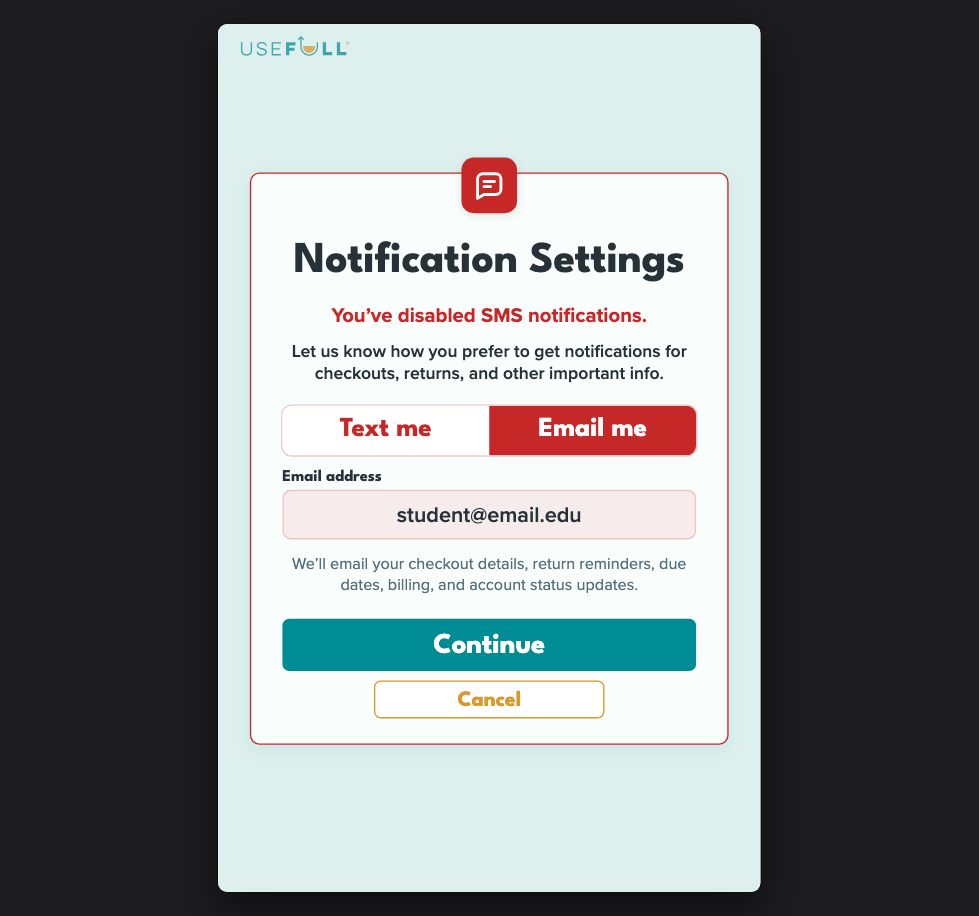
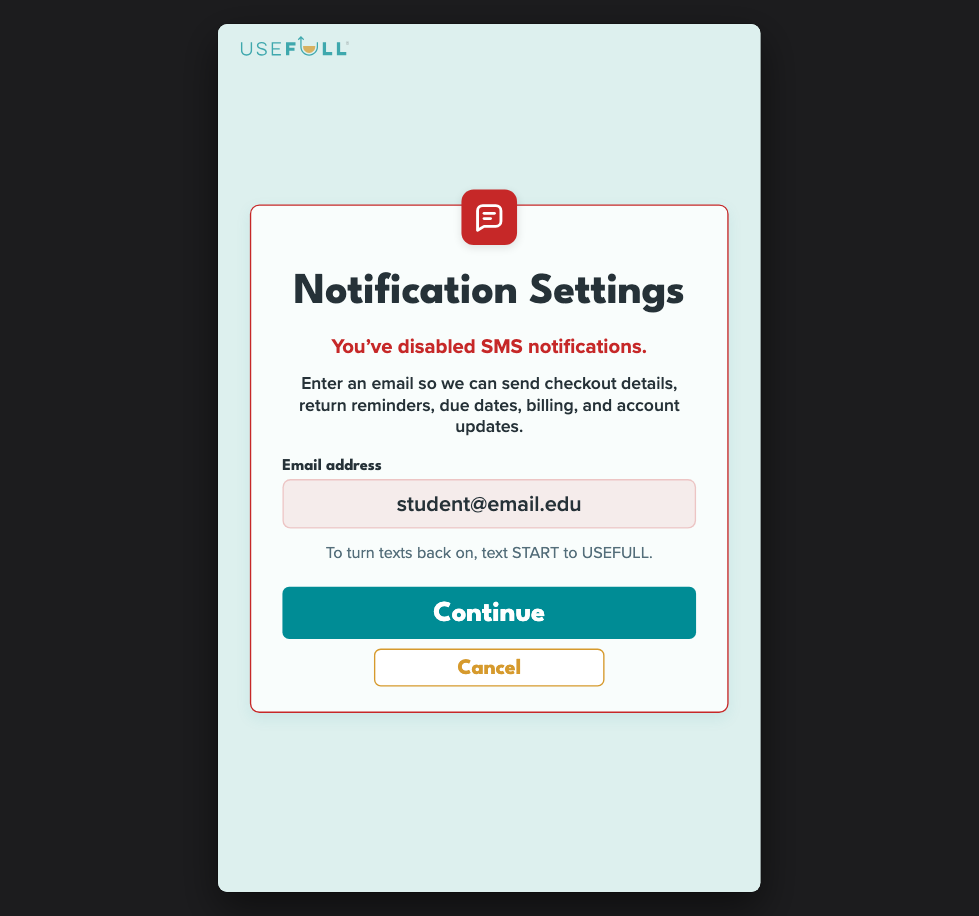
Make SMS disabled notification email-only

Changed region(s): [[0.2451, 0.1528, 0.7661, 0.8253]]

diff --git a/v4.html b/v4.html
@@ -1914,16 +1914,6 @@
     .notification-channel-option.is-selected .notification-channel-option__sub {
       color: rgba(255, 255, 255, 0.86);
     }
-    .notification-settings-card--sms-disabled .notification-channel-toggle {
-      box-shadow: 0 0 0 2px rgba(198, 40, 40, 0.24);
-    }
-    .notification-settings-card--sms-disabled .notification-channel-option {
-      color: #C62828;
-    }
-    .notification-settings-card--sms-disabled .notification-channel-option.is-selected {
-      background: #C62828;
-      color: var(--white);
-    }
     .notification-email-field {
       width: min(100%, 620px);
       display: grid;
@@ -4940,25 +4930,29 @@
         case STATE.NOTIFICATION_SETTINGS: {
           const phoneFmt = formatPhoneNumber(identifierValue || '5551233456');
           const isSmsDisabledScenario = currentFlow?.scenario === CREDIT_SCENARIO.RETURN_SMS_DISABLED;
-          const isChangeableNotifications = isSmsDisabledScenario || notificationSettingsMode === 'changeable';
-          const selectedPreference = isChangeableNotifications ? (notificationPreference || 'sms') : 'sms';
+          const isChannelChoiceAvailable = !isSmsDisabledScenario && notificationSettingsMode === 'changeable';
+          const selectedPreference = isSmsDisabledScenario
+            ? 'email'
+            : isChannelChoiceAvailable
+              ? (notificationPreference || 'sms')
+              : 'sms';
           const emailValue = notificationEmail || '';
           const emailAttrValue = emailValue.replace(/&/g, '&amp;').replace(/"/g, '&quot;').replace(/</g, '&lt;');
           const isEmailSelected = selectedPreference === 'email';
           const isEmailValid = /^[^\s@]+@[^\s@]+\.[^\s@]+$/.test(emailValue);
           const canContinue = !isEmailSelected || isEmailValid;
-          const title = isChangeableNotifications ? 'Notification Settings' : 'Allow Notifications';
+          const title = isSmsDisabledScenario || isChannelChoiceAvailable ? 'Notification Settings' : 'Allow Notifications';
           const subheaderHtml = isSmsDisabledScenario
             ? `
                 <div class="notification-subheader">
                   <div class="notification-subheader__alert">You’ve disabled SMS notifications.</div>
-                  <div class="notification-subheader__body">Let us know how you prefer to get notifications for checkouts, returns, and other important info.</div>
+                  <div class="notification-subheader__body">Enter an email so we can send checkout details, return reminders, due dates, billing, and account updates.</div>
                 </div>
               `
-            : `<div class="auth-card__subtitle">${isChangeableNotifications
+            : `<div class="auth-card__subtitle">${isChannelChoiceAvailable
                 ? 'Choose how we send checkouts, returns, and other important info.'
                 : "We'll send you notifications for checkouts, returns, and other important info via SMS."}</div>`;
-          const selectorHtml = isChangeableNotifications
+          const selectorHtml = isChannelChoiceAvailable
             ? `
                 <div class="notification-channel-toggle" role="group" aria-label="Notification method">
                   <button class="notification-channel-option ${selectedPreference === 'sms' ? 'is-selected' : ''}" id="chooseSmsBtn" type="button" aria-pressed="${selectedPreference === 'sms'}">
@@ -4987,9 +4981,11 @@
                 </div>
               `;
           const legalCopy = isEmailSelected
-            ? 'We’ll email your checkout details, return reminders, due dates, billing, and account status updates.'
+            ? isSmsDisabledScenario
+              ? 'To turn texts back on, text START to USEFULL.'
+              : 'We’ll email your checkout details, return reminders, due dates, billing, and account status updates.'
             : '<strong>By continuing, I agree</strong> USEFULL may text me rental, return, due-date, billing, and account status updates. Msg/data rates may apply. Reply STOP to opt out.';
-          const continueLabel = isChangeableNotifications ? 'Continue' : 'Agree and Continue';
+          const continueLabel = isSmsDisabledScenario || isChannelChoiceAvailable ? 'Continue' : 'Agree and Continue';
           screen.innerHTML = `
             <div class="brand-strip">
               <img class="brand-strip__logo" src="images/USEFULL-icons/USEFULL-Logo-Registered_Color.svg" alt="USEFULL" />
@@ -5035,8 +5031,9 @@
             });
           }
           document.getElementById('notificationContinueBtn').onclick = () => {
-            if (notificationPreference === 'email' && !/^[^\s@]+@[^\s@]+\.[^\s@]+$/.test(notificationEmail || '')) return;
-            if (!isChangeableNotifications) notificationPreference = 'sms';
+            if (isEmailSelected && !/^[^\s@]+@[^\s@]+\.[^\s@]+$/.test(notificationEmail || '')) return;
+            if (isSmsDisabledScenario) notificationPreference = 'email';
+            else if (!isChannelChoiceAvailable) notificationPreference = 'sms';
             advanceFromNotificationSettings();
           };
           document.getElementById('cancelBtn').onclick = resetSession;

diff --git a/appless-checkout/notification-settings-twilio-spec.md b/appless-checkout/notification-settings-twilio-spec.md
@@ -49,7 +49,7 @@ New scenario:
 2. Card fingerprint maps to an existing account.
 3. USEFULL account shows SMS disabled / opted out.
 4. Show SMS Disabled Notification Settings modal immediately after card tap.
-5. User chooses email, or explicitly reselects SMS if re-enablement is supported.
+5. User enters an email address.
 6. Continue the returning-user checkout path.
 
 This screen exists because returning users may still need checkout details, due dates, late fee notices, billing issues, and account status updates even after texting STOP.
@@ -90,17 +90,13 @@ Use when USEFULL believes the user has disabled SMS, either by app preference, i
 - Card border: red.
 - Title: `Notification Settings`
 - Subheader line 1, red: `You’ve disabled SMS notifications.`
-- Subheader line 2, black: `Let us know how you prefer to get notifications for checkouts, returns, and other important info.`
-- Selector: default to `Email me`.
-  - Disabled-flow selected state: red background, white text.
-  - Disabled-flow unselected state: white background, red text.
+- Subheader line 2, black: `Enter an email so we can send checkout details, return reminders, due dates, billing, and account updates.`
+- No SMS/email selector.
 - Email input: pale red background.
+- Helper copy: `To turn texts back on, text START to USEFULL.`
 - CTA: `Continue`
 
-Product decision needed for re-enabling SMS:
-
-- Safest approach: if the user selects `Text me` while Twilio/carrier opt-out is active, explain that they must text `START` or `UNSTOP` to USEFULL’s sender before SMS can resume.
-- Do not assume the kiosk can override a carrier/Twilio STOP block. For U.S. toll-free numbers, Twilio documents special behavior: only START/UNSTOP fully undo blocking.
+Do not offer SMS re-enable at the kiosk. Treat every SMS-disabled source as email-only in this checkout edge case. If the opt-out came from Twilio STOP or is only known from a Twilio 21610 failure, the kiosk cannot safely restore deliverability; the user needs to text `START` or `UNSTOP` to the USEFULL sender.
 
 ## Twilio integration requirements
 
@@ -224,7 +220,7 @@ OTP should remain logically separate from marketing/transactional lifecycle mess
 - User sees the phone number they typed before SMS consent is captured.
 - SMS-only variant has message icon, no selector, and `Agree and Continue`.
 - Changeable variant swaps the phone row for an email input when email is selected.
-- SMS-disabled returning-user path shows the red warning variant immediately after card recognition and defaults to email.
+- SMS-disabled returning-user path shows the red warning variant immediately after card recognition, requires email, and does not show a Text me option.
 - Outbound SMS is blocked when app DB says the user opted out.
 - Inbound STOP/START/HELP updates app DB from Twilio webhook/Event Stream.
 - Twilio 21610 marks the number SMS-disabled and triggers future email fallback where available.
@@ -233,7 +229,6 @@ OTP should remain logically separate from marketing/transactional lifecycle mess
 ## Open questions for the implementation ticket
 
 - Will production launch with SMS-only or changeable notifications at first checkout?
-- If SMS is disabled, can the kiosk offer SMS re-enable, or should it only tell users to text START/UNSTOP?
 - Is Twilio Consent Management API enabled/priced for USEFULL’s Twilio account?
 - Is the sender toll-free or A2P 10DLC at launch? Toll-free has special START/UNSTOP behavior.
 - What exact consent copy version should Legal approve for the kiosk?
